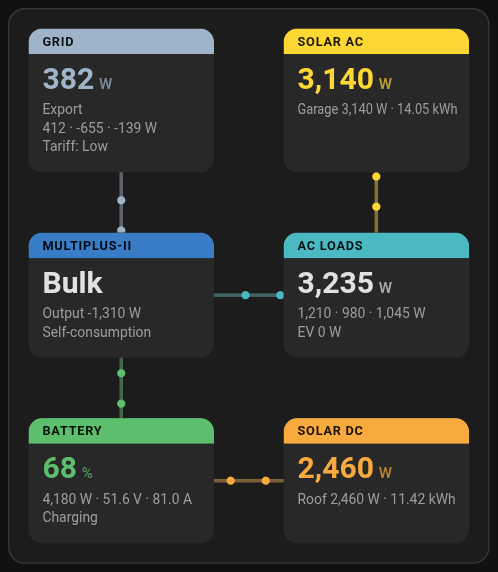
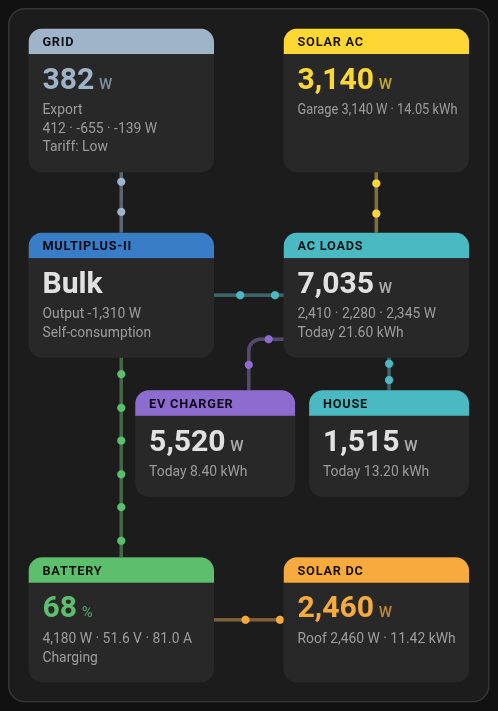
feat: spotrebice pod AC loads (consumers), loads.today, v0.2.0

Changed region(s): [[0.0301, 0.2378, 0.9639, 0.951], [0.0301, 0.0, 0.9639, 0.2972]]

diff --git a/victron-ess-flow-card.js b/victron-ess-flow-card.js
@@ -3,7 +3,7 @@
  *  https://github.com/CVKBaca/victron-ess-flow-card · MIT License
  */
 (() => {
-  const VERSION = '0.1.0';
+  const VERSION = '0.2.0';
   const TAG = 'victron-ess-flow-card';
 
   const I18N = {
@@ -46,7 +46,13 @@
   const LAYOUTS = {
     portrait: { W: 380, bw: 160, cols: [0, 220], gap: 52, rows: [['grid', 'ac'], ['inverter', 'loads'], ['battery', 'dc']] },
     landscape: { W: 960, bw: 200, cols: [0, 380, 760], gap: 60, rows: [['grid', 'inverter', 'loads'], ['dc', 'battery', 'ac']] },
+    // landscape with consumers: 4th column right of the loads box
+    landscape4: { W: 1240, bw: 200, cols: [0, 350, 700, 1040], gap: 60, rows: [['grid', 'inverter', 'loads'], ['dc', 'battery', 'ac']] },
   };
+  const CONS_GAP = 12;    // gap between consumer boxes
+  const CONS_FIRST = 28;  // portrait: gap between the loads box and the first row of consumers
+  const CORNER_R = 10;    // radius of rounded line corners
+  const CONS_PER_ROW = 2; // portrait: consumers side by side, right of the inverter-battery line up to the card edge
   const LANDSCAPE_MIN_WIDTH = 560;
 
   // flows: [from, to, key]; positive power flows from -> to
@@ -87,8 +93,8 @@
     .val.small { font-size: 20px; }
     .u { font-size: 13px; font-weight: 500; fill-opacity: .7; }
     .sub { fill: var(--secondary-text-color); font-size: 12px; }
-    .ln { fill: none; stroke: var(--divider-color, rgba(127,127,127,.25)); stroke-width: 3; stroke-linecap: round; }
-    .la { fill: none; stroke-width: 3; stroke-linecap: round; opacity: 0; transition: opacity .4s; }
+    .ln { fill: none; stroke: var(--divider-color, rgba(127,127,127,.25)); stroke-width: 3; stroke-linecap: round; stroke-linejoin: round; }
+    .la { fill: none; stroke-width: 3; stroke-linecap: round; stroke-linejoin: round; opacity: 0; transition: opacity .4s; }
     .la.on { opacity: .35; }
     text { pointer-events: none; }
   `;
@@ -118,6 +124,7 @@
       this._cfg = Object.assign({ layout: 'auto', min_flow: 10 }, cfg, {
         header_style: cfg.header_style === 'stripe' ? 'stripe' : 'bar',
         dc_sources: src(cfg.dc_sources), ac_sources: src(cfg.ac_sources),
+        consumers: list(cfg.loads.consumers).map((x) => (typeof x === 'string' ? { power: x } : x)).filter(Boolean),
         colors: Object.assign({}, COLORS, cfg.colors || {}),
       });
       const c = this._cfg;
@@ -126,6 +133,8 @@
       if (c.battery) ents.push(...list(c.battery.power), c.battery.soc, c.battery.voltage, c.battery.current, c.battery.state);
       [...c.dc_sources, ...c.ac_sources].forEach((s) => ents.push(...list(s.power), s.today));
       list(c.loads.details).forEach((d) => ents.push(...list(d.power)));
+      ents.push(c.loads.today);
+      c.consumers.forEach((x) => ents.push(...list(x.power), x.today, ...list(x.extra).map((e) => e.entity)));
       ['grid', 'inverter', 'loads', 'battery'].forEach((k) => c[k] && list(c[k].extra).forEach((x) => ents.push(x.entity)));
       this._ents = [...new Set(ents.filter(Boolean))];
       this._key = null;
@@ -236,10 +245,37 @@
       const load = this._sum(c.loads.power) * inv(c.loads);
       const ll = [];
       const lp = this._phases(c.loads.power); if (lp) ll.push(lp);
+      const loadToday = c.loads.today ? this._num(c.loads.today) : NaN;
+      if (c.loads.today) ll.push(`${t.today} ${this._f(loadToday, 2)} kWh`);
       list(c.loads.details).forEach((d) => ll.push(`${d.name || d.power} ${this._W(this._sum(d.power))}`));
       list(c.loads.extra).forEach((x) => ll.push(this._extra(x)));
       B.loads = { label: c.loads.name || t.loads, color: C.loads, value: this._num0(load), unit: 'W', lines: ll,
         e: tap(c.loads, list(c.loads.power)[0]) };
+
+      // consumers fed from the AC loads (bus); the first one without `power` gets the rest (loads − others)
+      // (same for today's energy: a consumer without `today` gets loads.today − others, if loads.today is set)
+      let known = 0, knownToday = 0, todayOk = true;
+      c.consumers.forEach((x) => {
+        const p = list(x.power).length ? this._sum(x.power) : NaN; if (!Number.isNaN(p)) known += p;
+        if (list(x.power).length) { const e = x.today ? this._num(x.today) : NaN; if (Number.isNaN(e)) todayOk = false; else knownToday += e; }
+      });
+      let restUsed = false;
+      c.consumers.forEach((x, j) => {
+        let p = NaN, today = x.today ? this._num(x.today) : NaN;
+        if (list(x.power).length) p = this._sum(x.power);
+        else if (!restUsed) {
+          restUsed = true;
+          p = Number.isNaN(load) ? NaN : Math.max(0, load - known);
+          if (!x.today && c.loads.today) today = todayOk && !Number.isNaN(loadToday) ? Math.max(0, loadToday - knownToday) : NaN;
+        }
+        const cl = [];
+        if (x.today || (!list(x.power).length && c.loads.today)) cl.push(`${t.today} ${this._f(today, 2)} kWh`);
+        list(x.extra).forEach((e) => cl.push(this._extra(e)));
+        const k = 'c' + j;
+        B[k] = { label: x.name || `${t.loads} ${j + 1}`, color: x.color || C.loads, value: this._num0(p), unit: 'W',
+          lines: cl, cons: true, e: tap(x, list(x.power)[0] || list(c.loads.power)[0]) };
+        F[k] = p;
+      });
 
       // battery (+ = charging)
       let bat = NaN;
@@ -279,7 +315,8 @@
 
     // ---------------------------------------------------------------- layout
     _layout(mode, B) {
-      const P = LAYOUTS[mode];
+      const ck = Object.keys(B).filter((k) => B[k].cons);
+      const P = mode === 'landscape' && ck.length ? LAYOUTS.landscape4 : LAYOUTS[mode];
       const pos = {};
       let y = 0;
       P.rows.forEach((row) => {
@@ -288,8 +325,83 @@
         const h = Math.max(...keys.map((k) => boxH(B[k].lines.length)));
         row.forEach((k, idx) => { if (B[k]) pos[k] = { x: P.cols[idx], y, w: P.bw, h }; });
         y += h + P.gap;
+        // portrait: consumers side by side under the loads box, from the inverter-battery line to the card edge;
+        // rows of CONS_PER_ROW, right-aligned (the last consumer sits right under the loads box)
+        if (mode === 'portrait' && ck.length && row.includes('loads')) {
+          y += CONS_FIRST - P.gap;
+          const x0 = P.cols[0] + P.bw / 2 + CONS_GAP;
+          const w = (P.W - x0 - CONS_GAP * (CONS_PER_ROW - 1)) / CONS_PER_ROW;
+          for (let r = 0; r < ck.length; r += CONS_PER_ROW) {
+            const rk = ck.slice(r, r + CONS_PER_ROW);
+            const hc = Math.max(...rk.map((k) => boxH(B[k].lines.length)));
+            rk.forEach((k, j) => { pos[k] = { x: P.W - (rk.length - j) * (w + CONS_GAP) + CONS_GAP, y, w, h: hc, row: r / CONS_PER_ROW }; });
+            y += hc + CONS_GAP;
+          }
+          y += P.gap - CONS_GAP;
+        }
       });
-      return { W: P.W, H: y - P.gap, pos };
+      let H = y - P.gap;
+      // landscape: consumers stacked in the 4th column
+      if (mode === 'landscape' && ck.length) {
+        let yc = 0;
+        ck.forEach((k) => {
+          const hc = boxH(B[k].lines.length);
+          pos[k] = { x: P.cols[3], y: yc, w: P.bw, h: hc };
+          yc += hc + CONS_GAP;
+        });
+        H = Math.max(H, yc - CONS_GAP);
+      }
+      return { W: P.W, H, pos, mode };
+    }
+
+    // one line per consumer from the loads box (no shared bus)
+    _consPaths(L, keys) {
+      const a = L.pos.loads, out = {};
+      if (!a) return out;
+      const clamp = (v, lo, hi) => Math.min(hi, Math.max(lo, v));
+      if (L.mode === 'portrait') {
+        const y0 = a.y + a.h, yb = y0 + CONS_FIRST / 2;
+        keys.forEach((k) => {
+          const b = L.pos[k]; if (!b) return;
+          const cx = b.x + b.w / 2, cy = b.y + b.h / 2;
+          if (!b.row) {
+            const ax = clamp(cx, a.x + 24, a.x + a.w - 24);
+            const inv = L.pos.inverter;
+            const gx = inv ? (inv.x + inv.w + a.x) / 2 : NaN; // middle of the gap between inverter and loads
+            if (ax === cx) {
+              // under the loads box: straight down
+              out[k] = { d: `M${cx},${y0} L${cx},${b.y}`, len: b.y - y0 };
+            } else if (gx > b.x + 8 && gx < b.x + b.w - 8 && a.x > gx) {
+              // left of the loads box: into its left side (below the inverter line), up the gap, rounded corner
+              const R = CORNER_R, ey = a.y + a.h - 16;
+              out[k] = { d: `M${a.x},${ey} L${gx + R},${ey} A${R},${R} 0 0 0 ${gx},${ey + R} L${gx},${b.y}`,
+                len: (a.x - gx - R) + (b.y - ey - R) + Math.PI * R / 2 };
+            } else {
+              out[k] = { d: `M${ax},${y0} L${ax},${yb} L${cx},${yb} L${cx},${b.y}`, len: (yb - y0) + Math.abs(cx - ax) + (b.y - yb) };
+            }
+          } else {
+            // further rows: down the gap between the columns, then sideways into the box
+            const right = b.x + b.w + CONS_GAP / 2 <= a.x + a.w;
+            const gx = right ? b.x + b.w + CONS_GAP / 2 : b.x - CONS_GAP / 2;
+            const ex = right ? b.x + b.w : b.x;
+            out[k] = { d: `M${gx},${y0} L${gx},${cy} L${ex},${cy}`, len: (cy - y0) + CONS_GAP / 2 };
+          }
+        });
+        return out;
+      }
+      const x0 = a.x + a.w;
+      let prev = -Infinity;
+      keys.forEach((k, i) => {
+        const b = L.pos[k]; if (!b) return;
+        const cy = b.y + b.h / 2;
+        let ay = clamp(cy, a.y + HDR_H + 8, a.y + a.h - 8);
+        if (ay < prev + 10) ay = Math.min(prev + 10, a.y + a.h - 4);
+        prev = ay;
+        const mx = x0 + (b.x - x0) * (i + 1) / (keys.length + 1);
+        out[k] = ay === cy ? { d: `M${x0},${cy} L${b.x},${cy}`, len: b.x - x0 }
+          : { d: `M${x0},${ay} L${mx},${ay} L${mx},${cy} L${b.x},${cy}`, len: (b.x - x0) + Math.abs(cy - ay) };
+      });
+      return out;
     }
 
     _path(a, b) {
@@ -314,12 +426,20 @@
         this._flows.push({ k, d: p.d, len: p.len, col });
         lines += `<path class="ln" d="${p.d}"/><path class="la" data-la="${k}" d="${p.d}" stroke="${col}"/><g data-dots="${k}"></g>`;
       });
+      const ck = Object.keys(B).filter((k) => B[k].cons);
+      const cp = this._consPaths(L, ck);
+      ck.filter((k) => cp[k]).forEach((k) => {
+        const p = cp[k];
+        const col = B[k].color;
+        this._flows.push({ k, d: p.d, len: p.len, col });
+        lines += `<path class="ln" d="${p.d}"/><path class="la" data-la="${k}" d="${p.d}" stroke="${esc(col)}"/><g data-dots="${k}"></g>`;
+      });
       Object.entries(L.pos).forEach(([k, p]) => {
         defs += `<clipPath id="c-${k}"><rect x="${p.x}" y="${p.y}" width="${p.w}" height="${p.h}" rx="12"/></clipPath>`;
         boxes += `<g><rect class="bg" data-e="${esc(B[k].e || '')}" x="${p.x}" y="${p.y}" width="${p.w}" height="${p.h}" rx="12"/>`
           + (this._cfg.header_style === 'bar'
-            ? `<rect x="${p.x}" y="${p.y}" width="${p.w}" height="${HDR_H}" fill="${B[k].color}" clip-path="url(#c-${k})"/>`
-            : `<rect x="${p.x}" y="${p.y}" width="4" height="${p.h}" fill="${B[k].color}" clip-path="url(#c-${k})"/>`)
+            ? `<rect x="${p.x}" y="${p.y}" width="${p.w}" height="${HDR_H}" fill="${esc(B[k].color)}" clip-path="url(#c-${k})"/>`
+            : `<rect x="${p.x}" y="${p.y}" width="4" height="${p.h}" fill="${esc(B[k].color)}" clip-path="url(#c-${k})"/>`)
           + `<g data-box="${k}"></g></g>`;
       });
       const title = this._cfg.title ? `<div class="title">${esc(this._cfg.title)}</div>` : '';

diff --git a/README.md b/README.md
@@ -66,9 +66,13 @@ inverter:
   mode: sensor.ess_mode
 loads:
   power: [sensor.ac_loads_l1_power, sensor.ac_loads_l2_power, sensor.ac_loads_l3_power]
-  details:
-    - name: EV
+  today: sensor.ac_loads_energy_today
+  consumers:
+    - name: EV charger
       power: sensor.ev_charger_power
+      today: sensor.ev_charger_energy_today
+      color: '#8E6CCF'
+    - name: House          # no power -> the rest (loads − other consumers)
 battery:
   power: sensor.battery_power
   soc: sensor.battery_soc
@@ -120,7 +124,9 @@ Common options for `grid`, `inverter`, `loads` and `battery`:
 | | `invert_dc` | – | `true` flips the sign of `dc_power` |
 | | `mode` | – | Extra line with a mode / strategy entity |
 | `loads` | `power` | yes | AC loads power (entity or list) |
-| | `details` | – | Extra lines: list of `{name, power}` (e.g. EV charger) |
+| | `today` | – | Today's energy (kWh), shown as a line in the box |
+| | `consumers` | – | Boxes fed from the AC loads, each with its own animated line (see below) |
+| | `details` | – | Extra lines: list of `{name, power}` |
 | `battery` | `power` | – | Battery power, + = charging |
 | | `soc` | – | State of charge (%) — main value |
 | | `voltage`, `current` | – | Shown next to the power |
@@ -129,6 +135,13 @@ Common options for `grid`, `inverter`, `loads` and `battery`:
 `dc_sources` and `ac_sources` are lists of PV sources. Each item is an entity id or
 `{name, power, today}` (`power` may be a list, `today` is the daily yield in kWh).
 Sources are summed in one box; each source gets its own line.
+
+`loads.consumers` is a list of boxes fed from the AC loads (e.g. EV charger, house). Each item:
+`name`, `power` (entity or list), `today` (kWh), `color`, `extra`, `tap_entity`.
+The first consumer **without `power`** shows the rest: loads − other consumers (and, if it has no `today` but
+`loads.today` is set, loads today − other consumers today).
+Portrait: consumers sit side by side under the AC loads box (two per row); the last one is right under it.
+Landscape: consumers are stacked in a 4th column.
 
 Power entities may be in W or kW (converted by `unit_of_measurement`).
 
